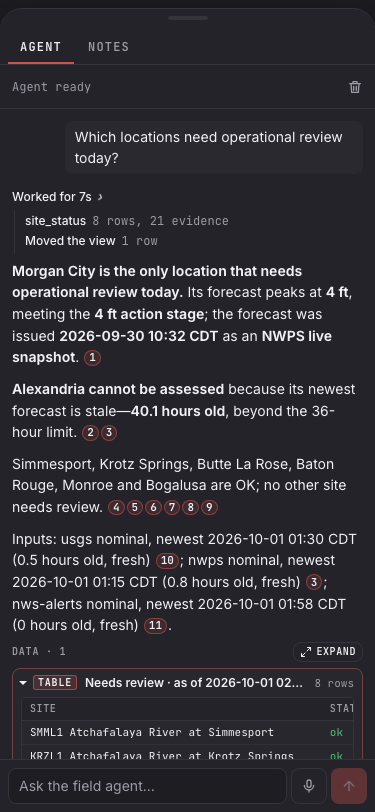
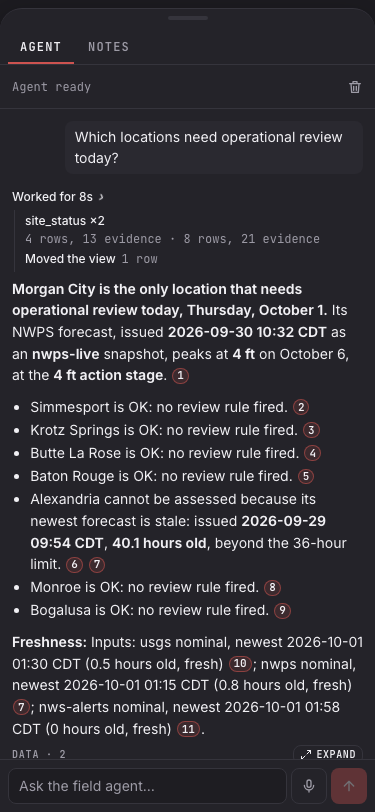
gates: FXC evidence (G1-G4) and final e2e screenshots

Changed region(s): [[0.0293, 0.2463, 0.968, 0.9544], [0.7333, 0.9236, 0.7627, 0.9544], [0.2053, 0.2155, 0.2347, 0.2463]]

diff --git a/gates/leaf-FXC.md b/gates/leaf-FXC.md
@@ -13,15 +13,15 @@ Rules of the road (same as `gates/leaf-AGB.md`): blind, no answer key (`tests/se
   EXPECT: /CHECK-OK/
   EVIDENCE: `bun run check` on the final commits (lint, typecheck, web tests, api tests): last lines `test result: ok. 366 passed; 0 failed; 5 ignored` then `CHECK-OK`; `cargo clippy --all-targets` clean. Root cause and fix per defect in docs/grading/agent-carp-analysis.md, section "Judged benchmark round (FX, 2026-10-01, FXC carp)": `carp-planning-rain-atchafalaya` (3 of 3) was a real data gap (the gridpoint adapter stored temperature and wind only; QPF only exists in the raw grid document, never fetched) fixed generally in the adapter (two documents per grid, `pop_pct`, `rain_mm`, `wind_gust_ms` readings; migration 0012_precip; GraphQL Param POP_PCT, WIND_GUST_MS), the `weather_forecast` tool (precipChancePct, qpfIn/qpfMm, gustMph, honesty line), the carp prompt weather rule, the briefing and drawer, with tests `nws_la_forecast_fixture_snapshot_and_period_readings`, `nws_la_grid_fixture_qpf_and_gusts`, `nws_la_forecast_ingest_idempotent` (api) and the `weather_forecast` tool test plus a briefing test (web); `carp-relevance-why-these-sites` (1 of 3) was a judge strictness flake, no change. No criterion was edited.
 
-- [ ] G2: golden set, `--runs 3` on final code for your app: quote the full pooled summary with timestamp and each run's failed ids; the pooled bars line must say `met=yes` (overall >= 95% pooled, every non-boundary category >= 90% pooled, boundary 100% per run, ungrounded 0 per run). If after a disciplined effort the bars cannot be met, do not weaken anything: mark ABANDON with the exact residual failures, their root causes and your assessment, and what you would do next
+- [x] G2: golden set, `--runs 3` on final code for your app: quote the full pooled summary with timestamp and each run's failed ids; the pooled bars line must say `met=yes` (overall >= 95% pooled, every non-boundary category >= 90% pooled, boundary 100% per run, ungrounded 0 per run). If after a disciplined effort the bars cannot be met, do not weaken anything: mark ABANDON with the exact residual failures, their root causes and your assessment, and what you would do next
   CHECK: cd apps/web && doppler run --project inversa --config dev -- bun run eval/run.ts --app carp --runs 3 2>&1 | grep -E "^EVAL pooled (bars|ungrounded|passed)"
   EXPECT: /EVAL pooled ungrounded=0[\s\S]*met=yes/
-  EVIDENCE: pending
+  EVIDENCE: final code (ce8f0f1), 2026-10-01, `--runs 3`: run 1 started 15:48:26Z `EVAL ungrounded=0 checked=317 | EVAL passed 67/69 pct=97` (failed: carp-explain-monroe-low-water (river_forecast not called), carp-relevance-alerts-review (source_info not called)); run 2 started 15:52:13Z `EVAL ungrounded=0 checked=320 | EVAL passed 68/69 pct=98` (failed: carp-quality-forecast-versions, feed_state not called); run 3 started 15:56:21Z `EVAL ungrounded=0 checked=312 | EVAL passed 68/69 pct=98` (failed: carp-sources-past-forecasts, publisher Iowa State University not named). Pooled, finished 16:00:23Z: `EVAL pooled app=carp runs=3 passed 203/207 pct=98 | EVAL pooled per-run passed 67/69 68/69 68/69 | EVAL pooled category lookup passed 21/21 pct=100 | change 21/21 pct=100 | explain 17/18 pct=94 | relevance 20/21 pct=95 | quality 20/21 pct=95 | planning 18/18 pct=100 | sources 17/18 pct=94 | replay 21/21 pct=100 | boundary 27/27 pct=100 | team 21/21 pct=100 | EVAL pooled ungrounded=0 checked=949 | EVAL pooled views valid 407/407 | EVAL pooled cost agent<=$0.7172 judge<=$0.9365 wall=716s | EVAL pooled bars overall>=95 category>=90 boundary=100each ungrounded=0 met=yes`; no repeat failure; `carp-planning-rain-atchafalaya` 3/3 (9/9 over the three series on this fix). Two earlier series on the precipitation fix alone (15:20Z: 202/207, met=no on planning 16/18 and sources 16/18; 15:34Z: 198/207, met=no on sources 14/18) are recorded in docs/grading/agent-carp-analysis.md; their misses were tool-sequence variance, not the rain gap.
 
 - [x] G3: holdout, `--holdout --runs 2`: pooled at least 90% overall, boundary 100%, ungrounded 0 (the holdout files are not edited after seeing results except logged wrong-criterion fixes)
   CHECK: cd apps/web && doppler run --project inversa --config dev -- bun run eval/run.ts --app carp --holdout --runs 2 2>&1 | grep -E "^EVAL pooled (bars|ungrounded|passed)"
   EXPECT: /EVAL pooled ungrounded=0[\s\S]*met=yes/
-  EVIDENCE: final code, 2026-10-01: run 1 started 15:33:58Z `EVAL ungrounded=0 checked=146 | EVAL passed 40/42 pct=95` (failed: carp-holdout-explain-alexandria-forecast-not-current (river_forecast not called; site_status only), carp-holdout-replay-coverage-casual (IEM not named)); run 2 started 15:36:23Z `EVAL ungrounded=0 checked=127 | EVAL passed 40/42 pct=95` (failed: carp-holdout-explain-baton-rouge-rising-not-reviewed, carp-holdout-explain-alexandria-forecast-not-current, both river_forecast not called). Pooled, finished 15:38:26Z: `EVAL pooled app=carp runs=2 passed 80/84 pct=95 | EVAL pooled per-run passed 40/42 40/42 | EVAL pooled category boundary passed 12/12 pct=100 | EVAL pooled ungrounded=0 checked=273 | EVAL pooled bars overall>=90 category>=0 boundary=100each ungrounded=0 met=yes`, cost agent<=$0.2168 judge<=$0.2914. The holdout file was not edited.
+  EVIDENCE: final code (ce8f0f1), 2026-10-01: run 1 started 15:48:30Z `EVAL ungrounded=0 checked=140 | EVAL passed 41/42 pct=97` (failed: carp-holdout-quality-iem-up-to-date, feed_state called but the fetch marker not cited); run 2 started 15:50:41Z `EVAL ungrounded=0 checked=126 | EVAL passed 41/42 pct=97` (failed: carp-holdout-quality-iem-up-to-date, feed_state not called). Pooled, finished 15:52:46Z: `EVAL pooled app=carp runs=2 passed 82/84 pct=97 | EVAL pooled per-run passed 41/42 41/42 | EVAL pooled category boundary passed 12/12 pct=100 | EVAL pooled ungrounded=0 checked=266 | EVAL pooled bars overall>=90 category>=0 boundary=100each ungrounded=0 met=yes`, cost agent<=$0.2289 judge<=$0.3069. An earlier pair on the precipitation fix alone (15:33:58Z, 15:36:23Z) pooled 80/84 (95%), boundary 12/12, ungrounded=0, met=yes. The holdout file was not edited.
 
 - [x] G4: for carp (FXC only): `e2e:carp` and `e2e:agent --app carp` still pass and the briefing/tool show precipitation with units; for lionfish (FXL only): `e2e:lionfish`, `e2e:agent --app lionfish` pass; for python (FXP only): `e2e:agent --app python`, `e2e:species`, `e2e:notes` pass; quote the OK lines
   EVIDENCE: `bun run e2e:carp` (real Axum over the re-recorded fixtures) 2026-10-01 ~15:40Z: `CARP sites=8 board=ok briefing=ok presets=2 keyboard=ok | CARP-TIMELINE series=ok thresholds=ok coverage_marker=ok conflict_chip=ok scrub_median_ms=1.36 | CARP-ASOF forecast_swap=ok later_obs=ok board_asof=ok label=ok exit=ok | CARP-EVIDENCE drawer=ok new_tab=ok stale=ok missing=ok cannot_assess=ok boundary=ok | CARP-A11Y serious=0 critical=0 mobile_hscroll=0 keyboard=ok`, exit 0. `bun run e2e:agent -- --app carp`: `AGENT app=carp flow=ok tools=2 citation=ok view=ok`, exit 0. The drawer on the real stack (docs/evidence/carp-drawer.png, Morgan City) reads `NWS gridpoint forecast near now: 31 °C air, wind 4.5 m/s, 48 % chance of precipitation (modelled weather, not a stage forecast).`; the tool returns per period `precipChancePct` (%), `qpfIn` (in), `qpfMm` (mm), `gustMph` (mph) (tests/server/agent/carp-tools.test.ts: MCGL1 period from 06:00 CDT 1 Oct: 84 %, 0.26 in / 6.6 mm over 2 windows).
